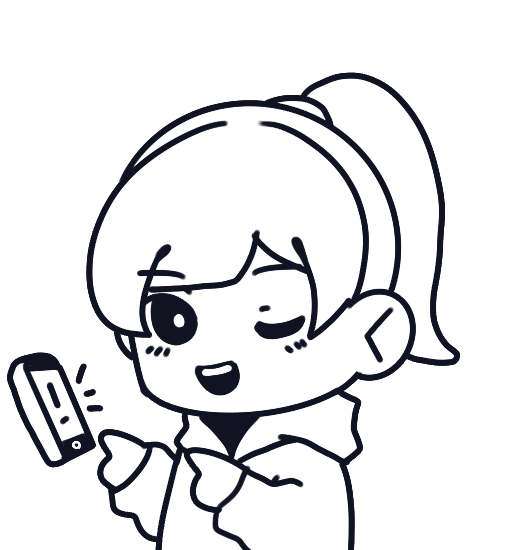
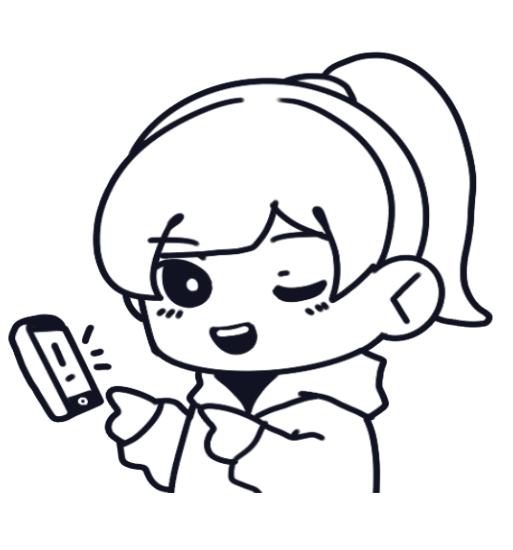
fixed buttons

diff --git a/index.html b/index.html
@@ -98,7 +98,7 @@
             and I've set up some clear rules (called Terms of Service) to make things smooth for my clients before they ask for my work.
           </p>
         <div class="data">
-        <a href="#myskills" class="skill">My Skills</a>
+        <a href="#contact-me" class="skill">Get In Touch With Me</a>
         </div>
       </div>
     </div>
@@ -120,19 +120,6 @@
 <div class="skill-container">
   <h1>My Skills</h1>
 <div class="skill-sec" id="myskills">
-  
- 
-  <div class="category">
-    <div class="category-title">Programming Language Skills</div>
-    <div class="skill-category">
-      <div class="skill-name">Java (50%)</div>
-      <div class="skill-bar" style="width: 50%; background-color: #ff4d4d;"></div>
-    </div>
-    <div class="skill-category">
-      <div class="skill-name">JavaScript (50%)</div>
-      <div class="skill-bar" style="width: 50%; background-color: #ff4d4d;"></div>
-    </div>
-  </div>
 
   <div class="category">
     <div class="category-title">Web Development Skills</div>
@@ -151,35 +138,47 @@
   </div>
 
   <div class="category">
-    <div class="category-title">Frameworks and Libraries</div>
+    <div class="category-title">Programming Language Skills</div>
     <div class="skill-category">
-      <div class="skill-name">Springboot (50%)</div>
-      <div class="skill-bar" style="width: 50%; background-color: #ff4d4d;"></div>
+      <div class="skill-name">Java (40%)</div>
+      <div class="skill-bar" style="width: 40%; background-color: #ff4d4d;"></div>
     </div>
     <div class="skill-category">
-      <div class="skill-name">jQuery (50%)</div>
-      <div class="skill-bar" style="width: 50%; background-color: #ff4d4d;"></div>
+      <div class="skill-name">JavaScript (40%)</div>
+      <div class="skill-bar" style="width: 40%; background-color: #ff4d4d;"></div>
+    </div>
+  </div>
+
+  <div class="category">
+    <div class="category-title">Frameworks and Libraries</div>
+    <div class="skill-category">
+      <div class="skill-name">Springboot (40%)</div>
+      <div class="skill-bar" style="width: 40%; background-color: #ff4d4d;"></div>
+    </div>
+    <div class="skill-category">
+      <div class="skill-name">jQuery (40%)</div>
+      <div class="skill-bar" style="width: 40%; background-color: #ff4d4d;"></div>
     </div>
   </div>
 
   <div class="category">
     <div class="category-title">Database</div>
     <div class="skill-category">
-      <div class="skill-name">MySQL (60%)</div>
-      <div class="skill-bar" style="width: 60%; background-color: #ff4d4d;"></div>
+      <div class="skill-name">MySQL (50%)</div>
+      <div class="skill-bar" style="width: 50%; background-color: #ff4d4d;"></div>
     </div>
 
     <div class="skill-category">
-      <div class="skill-name">Xampp (60%)</div>
-      <div class="skill-bar" style="width: 60%; background-color: #ff4d4d;"></div>
+      <div class="skill-name">Xampp (50%)</div>
+      <div class="skill-bar" style="width: 50%; background-color: #ff4d4d;"></div>
     </div>
   </div>
 
   <div class="category">
     <div class="category-title">Version Control</div>
     <div class="skill-category">
-      <div class="skill-name">GitHub (70%)</div>
-      <div class="skill-bar" style="width: 70%; background-color: #ff4d4d;"></div>
+      <div class="skill-name">GitHub (50%)</div>
+      <div class="skill-bar" style="width: 50%; background-color: #ff4d4d;"></div>
     </div>
   </div>
 
@@ -189,21 +188,33 @@
       <div class="skill-name">Logo (90%)</div>
       <div class="skill-bar" style="width: 90%; background-color: #ff4d4d;"></div>
     </div>
+
     <div class="skill-category">
       <div class="skill-name">Digital illustrations (90%)</div>
       <div class="skill-bar" style="width: 90%; background-color: #ff4d4d;"></div>
     </div>
+
+    <div class="skill-category">
+      <div class="skill-name">Wireframes (80%)</div>
+      <div class="skill-bar" style="width: 80%; background-color: #ff4d4d;"></div>
+    </div>
+
+    <div class="skill-category">
+      <div class="skill-name">Prototyping (80%)</div>
+      <div class="skill-bar" style="width: 80%; background-color: #ff4d4d;"></div>
+    </div>
+
   </div>
 
   <div class="category">
     <div class="category-title">Languages</div>
     <div class="skill-category">
-      <div class="skill-name">N5 Level Japanese (50%)</div>
-      <div class="skill-bar" style="width: 50%; background-color: #ff4d4d;"></div>
+      <div class="skill-name">N5 Level Japanese (40%)</div>
+      <div class="skill-bar" style="width: 40%; background-color: #ff4d4d;"></div>
     </div>
     <div class="skill-category">
-      <div class="skill-name">English (90%)</div>
-      <div class="skill-bar" style="width: 90%; background-color: #ff4d4d;"></div>
+      <div class="skill-name">English (80%)</div>
+      <div class="skill-bar" style="width: 80%; background-color: #ff4d4d;"></div>
     </div>
 
   </div>
@@ -232,7 +243,12 @@
     </div>
 
     <div class="skill-category">
-      <div class="skill-name">PBI (50%)</div>
+      <div class="skill-name">Power BI (50%)</div>
+      <div class="skill-bar" style="width: 50%; background-color: #ff4d4d;"></div>
+    </div>
+
+    <div class="skill-category">
+      <div class="skill-name">Figma (50%)</div>
       <div class="skill-bar" style="width: 50%; background-color: #ff4d4d;"></div>
     </div>
 
@@ -484,7 +500,7 @@
 
 </section>
 
-<section class="contact-section">
+<section class="contact-section" id="contact-me">
   <div class="contact-info">
     <h2>Contact Me</h2>
     <p><i class="fas fa-phone"></i> +959 759 795 668</p>

diff --git a/styles/index.css b/styles/index.css
@@ -296,7 +296,8 @@ h2{
 
 .pic {
   margin: 20px;
-  max-width: 100%; 
+  max-width: 100%;
+  margin-right: -80px; 
   height: auto;
   width: auto;
 }
@@ -368,7 +369,7 @@ h2{
   max-width: 80vw;
   margin: 0 auto;
   padding: 20px 0;
-  margin-right: 15px;
+  margin-right: 1px;
 }
 
 .skill-container h1 {
@@ -417,6 +418,7 @@ h2{
   line-height: 24px;
   margin-top: 16px;
   margin-bottom: 16px;
+  margin-right: 10px;
 }
 
 .skill-bar {
